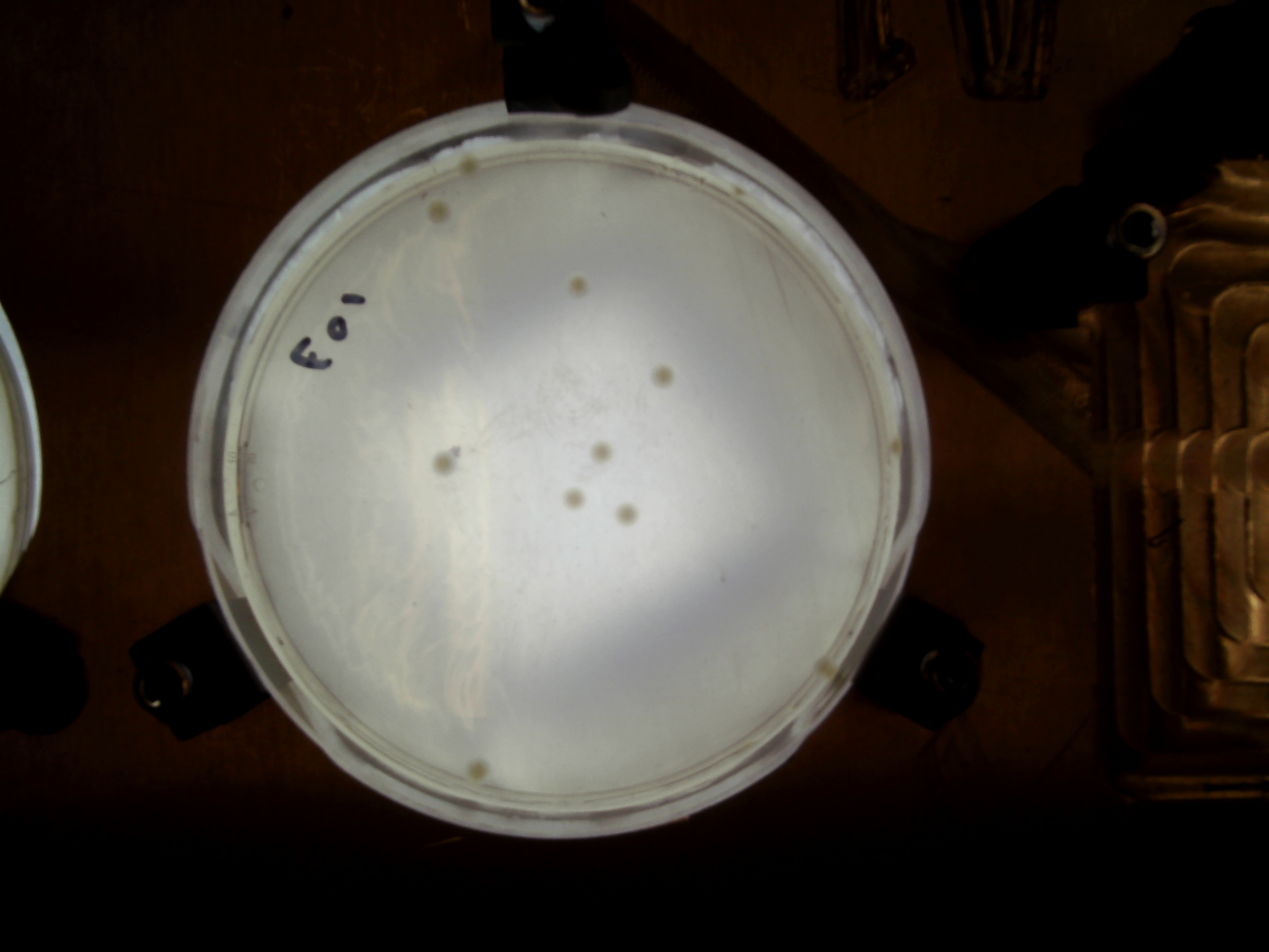
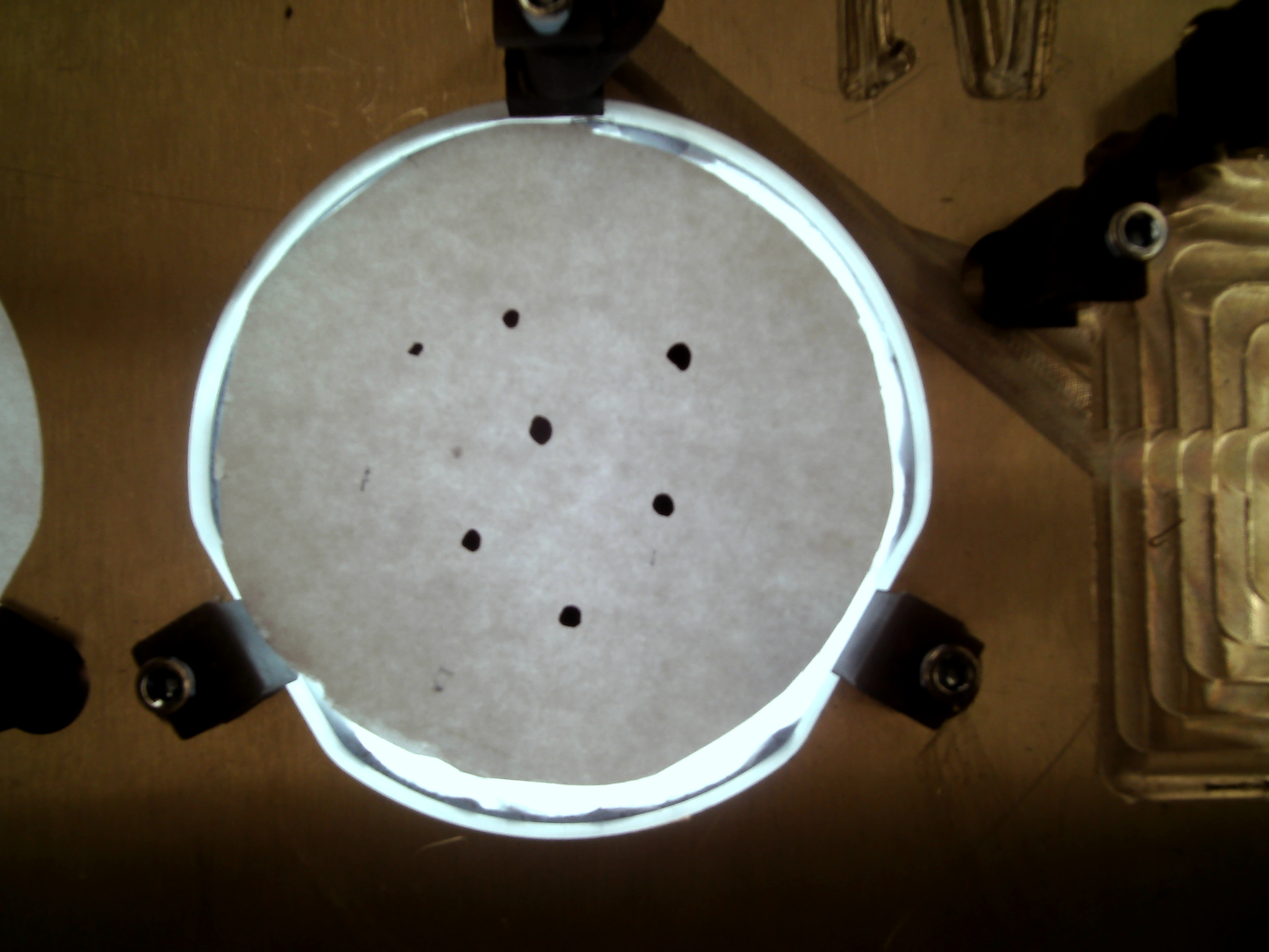
locate colonies

diff --git a/src/CPR_random.py b/src/CPR_random.py
@@ -422,10 +422,13 @@ def randomize(valid_colony_dir):
     totalList5 = [sublist[1:3] for sublist in P5coloniesList]
     totalList6 = [sublist[1:3] for sublist in P6coloniesList]
 
-    camX = 197  #mm measured accross the x dir of camera
-    camY = 257.1 #mm measured accross the y dir of camera
-    camPosx1 = 66
-    camPosy1 = 62
+    camX = 162.307  #mm measured accross the x dir of camera
+    camY = 121.73 #mm measured accross the y dir of camera
+  
+    #changed x+5 and y-5
+    camPosx1 = 71
+    camPosy1 = 57
+
     camPosx2 = 66
     camPosy2 = -58
     camPosx3 = 180

diff --git a/src/constants.py b/src/constants.py
@@ -2,7 +2,7 @@ from dataclasses import dataclass
 
 STERILIZER_COORDINATES = (450, 83, 50)  # Micrometers  # TODO
 PINHOLE_COORDINATES = (71, 0, 50)
-PETRI_DISH_DEPTH = 94  # Micrometers # TODO Check depth
+PETRI_DISH_DEPTH = 110  # Micrometers # TODO Check depth
 WELL_DEPTH = 90  # Micrometers # TODO Check depth
 CAMERA_POS_OFFSET = 50  # Micrometers # TODO Find real value
 IMAGE_COORDINATES = [
